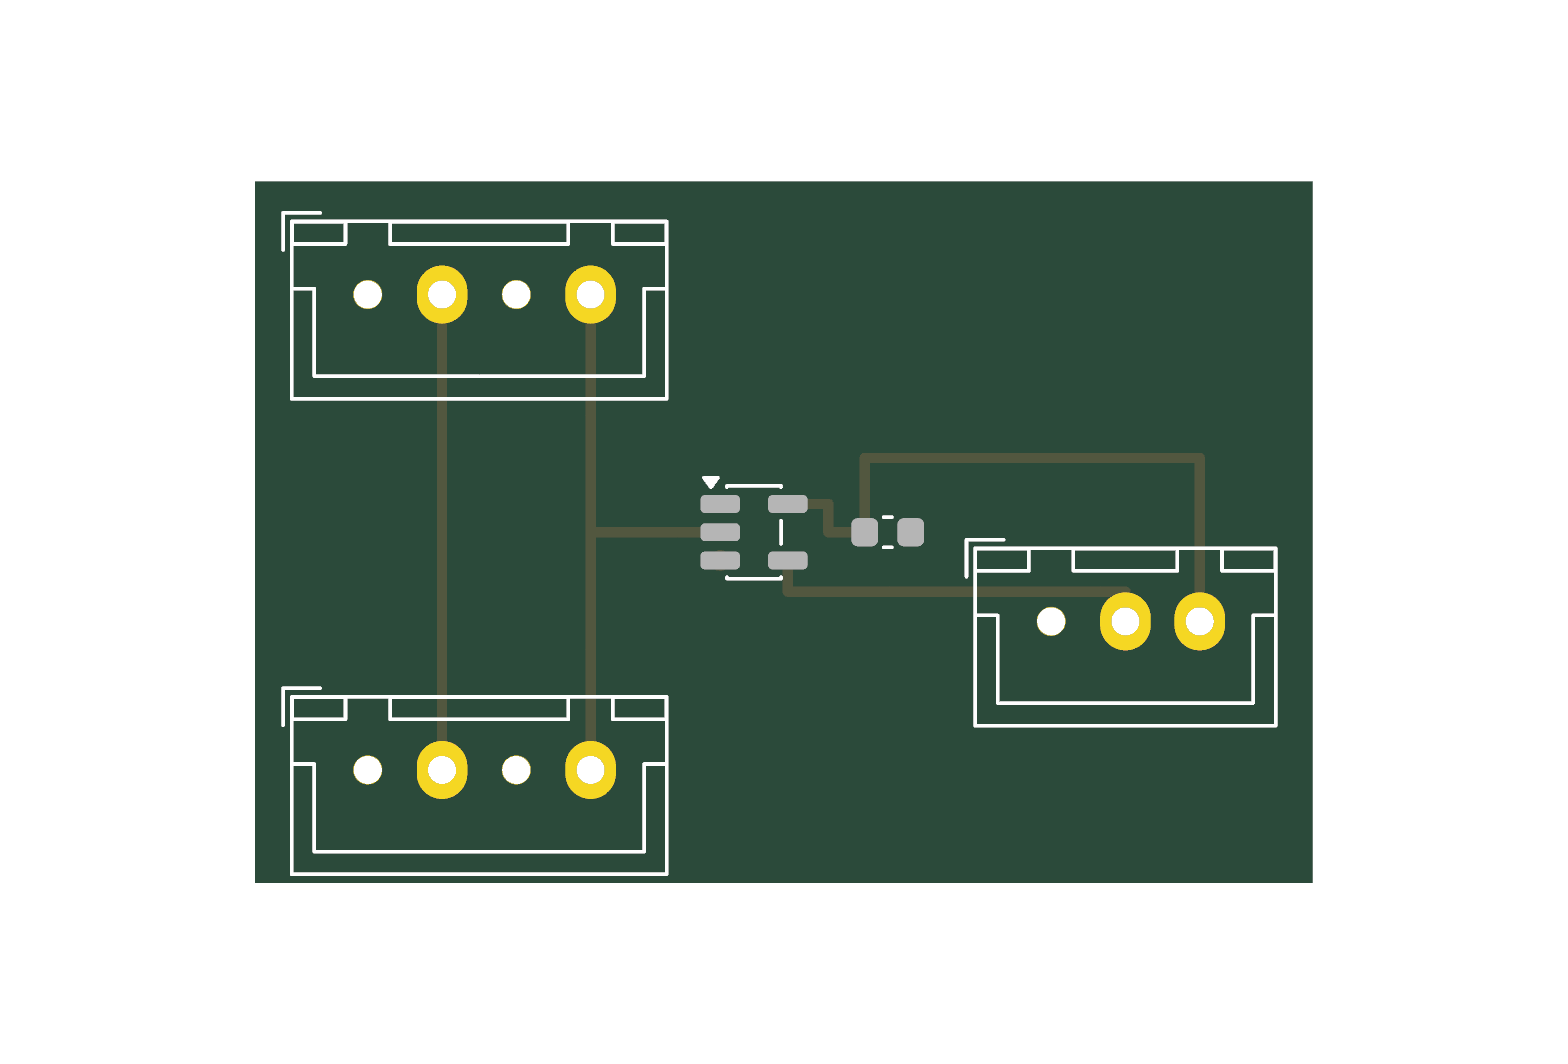
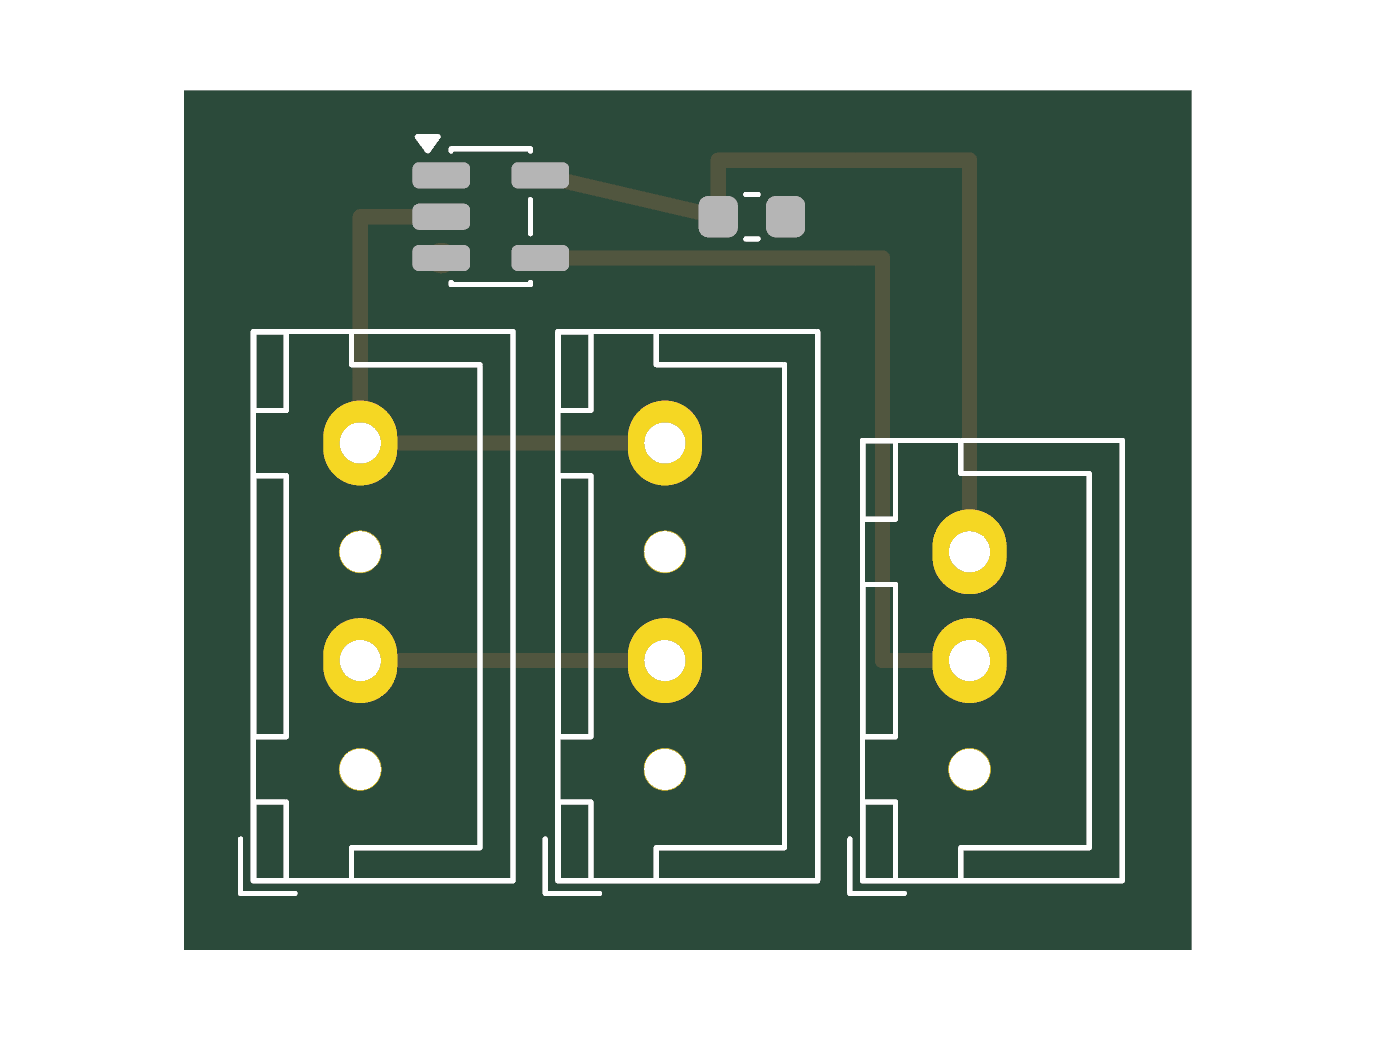
refactor(06-015): compact the flow-tap layout ~46% smaller
Rotate the three connectors vertical and pack them in a row along the bottom with
the buffer + cap up top. Board drops from 35.6x23.6 (840 mm^2) to 23.1x19.8
(457 mm^2). Still DRC-clean: 0 violations, 0 unconnected. Same nets/topology
(signals F.Cu, GND B.Cu); re-exported Gerbers + render.

Fixed a rotation-transform sign bug in the generator (KiCad's footprint-rotation
convention is rx=ox+px*cos+py*sin, ry=oy-px*sin+py*cos) so rotated footprints
place correctly.

Claude-Session: https://claude.ai/code/session_01NfkRErMrPyNuft1RbpzMet

Changed region(s): [[0.125, 0.0615, 0.875, 0.9231], [0.4688, 0.7077, 0.5, 0.7692]]

diff --git a/06-coffee-espresso/_reference/flow-tap-pcb/generate_pcb.py b/06-coffee-espresso/_reference/flow-tap-pcb/generate_pcb.py
@@ -1,7 +1,6 @@
 #!/usr/bin/env python3
-"""Native (kiutils) generator for the GICAR flow-tap interposer (06-015).
-Signals on F.Cu (routed around pad rows), GND on B.Cu (never crosses signals).
-No zone fill needed. Validate with kicad-cli."""
+"""Compact layout for the flow-tap interposer. Connectors rotated (pins facing the
+U1/C1 row) and packed in a row; signals on F.Cu, GND on B.Cu. ~half the area."""
 import math, sys, uuid
 def uid(): return str(uuid.uuid4())
 from kiutils.board import Board
@@ -12,10 +11,10 @@ from kiutils.items.gritems import GrLine
 
 FPDIR = sys.argv[1] if len(sys.argv) > 1 else "fps"
 OUT = sys.argv[2] if len(sys.argv) > 2 else "flow-tap.kicad_pcb"
+DEBUG = "--debug" in sys.argv
 
 board = Board().create_new()
 board.generator = "kiutils-flowtap"
-
 netnames = ["", "GND", "N_PLUS", "N_O", "V5", "N_OUT"]
 board.nets = [Net(i, n) for i, n in enumerate(netnames)]
 NUM = {n: i for i, n in enumerate(netnames)}
@@ -24,32 +23,30 @@ def load(name): return Footprint.from_file(f"{FPDIR}/{name}.kicad_mod")
 def place(name, ref, val, x, y, rot=0):
     fp = load(name)
     fp.position = Position(x, y, rot if rot else None)
-    fp.version = None; fp.generator = None; fp.tedit = None   # strip standalone-lib tokens
-    fp.tstamp = uid()
-    fp.properties["Reference"] = ref
-    fp.properties["Value"] = val
-    # keep the silk ${REFERENCE} fp_text in sync so the render shows the designator
+    fp.version = None; fp.generator = None; fp.tedit = None; fp.tstamp = uid()
+    fp.properties["Reference"] = ref; fp.properties["Value"] = val
     for gi in fp.graphicItems:
         if getattr(gi, "type", None) == "reference":
             gi.text = ref
     board.footprints.append(fp)
     return fp
 
-J1 = place("JST_XH_B4B-XH-A_1x04_P2.50mm_Vertical", "J1", "GICAR_meter", 5, 3)
-J2 = place("JST_XH_B4B-XH-A_1x04_P2.50mm_Vertical", "J2", "to_Vivaldi", 5, 19)
-U1 = place("SOT-23-5", "U1", "74LVC1G17", 18, 11)
-C1 = place("C_0603_1608Metric", "C1", "100nF", 22.5, 11)
-J3 = place("JST_XH_B3B-XH-A_1x03_P2.50mm_Vertical", "J3", "to_ito", 28, 14)
+# connectors rot 270 -> pins run upward (-y) from the housing at the bottom
+J1 = place("JST_XH_B4B-XH-A_1x04_P2.50mm_Vertical", "J1", "GICAR_meter", 4, 14, 90)
+J2 = place("JST_XH_B4B-XH-A_1x04_P2.50mm_Vertical", "J2", "to_Vivaldi", 11, 14, 90)
+J3 = place("JST_XH_B3B-XH-A_1x03_P2.50mm_Vertical", "J3", "to_ito", 18, 14, 90)
+U1 = place("SOT-23-5", "U1", "74LVC1G17", 7, 1.3)
+C1 = place("C_0603_1608Metric", "C1", "100nF", 13, 1.3)
 
 def setnet(fp, num, netname):
     for p in fp.pads:
         if p.number == str(num):
             p.net = Net(NUM[netname], netname); return
-    raise SystemExit(f"{fp.entryName}: no pad {num}")
+    raise SystemExit(f"{fp.properties.get('Reference')}: no pad {num}")
 
-for J in (J1, J2):                       # XH-4: 1 keyed-blank(NC), 2 +14.3V, 3 GND, 4 signal
+for J in (J1, J2):
     setnet(J, 2, "N_PLUS"); setnet(J, 3, "GND"); setnet(J, 4, "N_O")
-setnet(U1, 2, "N_O"); setnet(U1, 3, "GND"); setnet(U1, 4, "N_OUT"); setnet(U1, 5, "V5")  # 1=NC
+setnet(U1, 2, "N_O"); setnet(U1, 3, "GND"); setnet(U1, 4, "N_OUT"); setnet(U1, 5, "V5")
 setnet(C1, 1, "V5"); setnet(C1, 2, "GND")
 setnet(J3, 1, "GND"); setnet(J3, 2, "N_OUT"); setnet(J3, 3, "V5")
 
@@ -58,52 +55,66 @@ def abspad(fp, num):
         if p.number == str(num):
             a = math.radians(fp.position.angle or 0)
             px, py = p.position.X, p.position.Y
-            return (fp.position.X + px*math.cos(a) - py*math.sin(a),
-                    fp.position.Y + px*math.sin(a) + py*math.cos(a))
+            # KiCad footprint-rotation convention (y-axis down):
+            return (round(fp.position.X + px*math.cos(a) + py*math.sin(a), 4),
+                    round(fp.position.Y - px*math.sin(a) + py*math.cos(a), 4))
     raise SystemExit("no pad")
+
+if DEBUG:
+    for fp in (J1, J2, J3, U1, C1):
+        r = fp.properties["Reference"]
+        print(r, {p.number: abspad(fp, p.number) for p in fp.pads})
+    sys.exit(0)
 
 def route(points, netname, layer="F.Cu", w=0.35):
     for a, b in zip(points, points[1:]):
-        board.traceItems.append(Segment(start=Position(round(a[0],4), round(a[1],4)),
-                                         end=Position(round(b[0],4), round(b[1],4)),
+        board.traceItems.append(Segment(start=Position(*a), end=Position(*b),
                                          width=w, layer=layer, net=NUM[netname], tstamp=uid()))
 def via(p, netname):
-    board.traceItems.append(Via(position=Position(round(p[0],4), round(p[1],4)),
-                                size=0.7, drill=0.35, layers=["F.Cu", "B.Cu"], net=NUM[netname], tstamp=uid()))
+    board.traceItems.append(Via(position=Position(*p), size=0.7, drill=0.35,
+                                layers=["F.Cu", "B.Cu"], net=NUM[netname], tstamp=uid()))
 
-# ---- F.Cu signals ----
-route([abspad(J1, 2), abspad(J2, 2)], "N_PLUS")                       # +14.3 straight-through
-no_x = abspad(J1, 4)[0]
-route([abspad(J1, 4), abspad(J2, 4)], "N_O")                         # signal straight-through
-route([(no_x, abspad(U1, 2)[1]), abspad(U1, 2)], "N_O")             # branch to U1 input (T)
-j33 = abspad(J3, 3)
-route([abspad(U1, 5), (20.5, 10.05), (20.5, 11.0), abspad(C1, 1),    # V5: U1.VCC -> C1 -> J3.3
-       (21.725, 8.5), (j33[0], 8.5), j33], "V5")
+# F.Cu signals
+route([abspad(J1, 2), abspad(J2, 2)], "N_PLUS")                          # +14.3 pass-through
+route([abspad(J1, 4), abspad(J2, 4)], "N_O")                            # signal pass-through
+u2 = abspad(U1, 2); j14 = abspad(J1, 4)
+route([j14, (j14[0], u2[1]), u2], "N_O")                                # branch to U1.2 from the LEFT (clears U1.3)
+c1 = abspad(C1, 1); j33 = abspad(J3, 3)
+route([abspad(U1, 5), c1, (c1[0], 0.0), (j33[0], 0.0), j33], "V5")     # V5 over the top to J3.3
 j32 = abspad(J3, 2)
-route([abspad(U1, 4), (19.137, 13.0), (j32[0], 13.0), j32], "N_OUT")  # buffered out
+route([abspad(U1, 4), (16.0, abspad(U1, 4)[1]), (16.0, j32[1]), j32], "N_OUT")
 
-# ---- B.Cu GND (own layer -> free of signal crossings) ----
-g13, g23 = abspad(J1, 3), abspad(J2, 3)   # x-aligned spine, x = 10
-sx = g13[0]
-route([g13, g23], "GND", "B.Cu")                                     # spine J1.3 <-> J2.3
-route([(sx, 16.0), abspad(J3, 1)], "GND", "B.Cu")                    # branch (leaves spine at y16) -> J3.1
-u3 = abspad(U1, 3); via(u3, "GND"); route([u3, (sx, u3[1])], "GND", "B.Cu")   # U1 GND -> spine
-c2 = abspad(C1, 2); via(c2, "GND"); route([c2, abspad(J3, 1)], "GND", "B.Cu")  # C1 GND -> J3.1 pad
+# B.Cu GND (approach J3.1 from the side so it never runs over J3's V5/N_OUT pins)
+g1, gj = abspad(J1, 3), abspad(J3, 1)
+Y = g1[1]                                                               # spine y = 9
+route([(g1[0], Y), (14.0, Y)], "GND", "B.Cu")                          # spine J1.3..J2.3..tap
+route([(14.0, Y), (14.0, gj[1]), gj], "GND", "B.Cu")                   # down then across to J3.1
+u3 = abspad(U1, 3); via(u3, "GND"); route([u3, (u3[0], Y)], "GND", "B.Cu")
+c2 = abspad(C1, 2); via(c2, "GND"); route([c2, (c2[0], Y)], "GND", "B.Cu")
 
-# ---- board outline (Edge.Cuts) from placement bbox ----
+# outline — from pad extents + courtyards (so connector housings aren't clipped)
+def fp_extent(fp):
+    a = math.radians(fp.position.angle or 0)
+    ox, oy = fp.position.X, fp.position.Y
+    def tf(px, py): return (ox+px*math.cos(a)+py*math.sin(a), oy-px*math.sin(a)+py*math.cos(a))
+    pts = []
+    for p in fp.pads:
+        cx, cy = tf(p.position.X, p.position.Y); hw, hh = p.size.X/2, p.size.Y/2
+        pts += [(cx-hw, cy-hh), (cx+hw, cy+hh), (cx-hw, cy+hh), (cx+hw, cy-hh)]
+    for gi in fp.graphicItems:
+        if getattr(gi, "layer", "") in ("F.CrtYd", "B.CrtYd") and hasattr(gi, "start"):
+            pts.append(tf(gi.start.X, gi.start.Y)); pts.append(tf(gi.end.X, gi.end.Y))
+    return pts
 xs, ys = [], []
 for fp in board.footprints:
-    for p in fp.pads:
-        ax, ay = abspad(fp, p.number)
-        xs.append(ax); ys.append(ay)
-m = 3.8
+    for (px, py) in fp_extent(fp): xs.append(px); ys.append(py)
+m = 1.2
 x0, y0, x1, y1 = min(xs)-m, min(ys)-m, max(xs)+m, max(ys)+m
-corners = [(x0,y0), (x1,y0), (x1,y1), (x0,y1)]
+corners = [(x0,y0),(x1,y0),(x1,y1),(x0,y1)]
 for a, b in zip(corners, corners[1:]+corners[:1]):
     board.graphicItems.append(GrLine(start=Position(round(a[0],3),round(a[1],3)),
                                       end=Position(round(b[0],3),round(b[1],3)),
                                       layer="Edge.Cuts", width=0.15, tstamp=uid()))
 
 board.to_file(OUT)
-print(f"saved {OUT}: {len(board.footprints)} fps, {len(board.traceItems)} traces, "
-      f"outline {x1-x0:.1f} x {y1-y0:.1f} mm")
+print(f"saved {OUT}: outline {x1-x0:.1f} x {y1-y0:.1f} mm = {(x1-x0)*(y1-y0):.0f} mm^2")

diff --git a/06-coffee-espresso/06-015-gicar-flow-tap-interposer.md b/06-coffee-espresso/06-015-gicar-flow-tap-interposer.md
@@ -115,7 +115,7 @@ To revert: pull the board, plug the meter back into the Vivaldi.
 - [x] Schematic + netlist + BoM drafted (KiCad project scaffolded)
 - [x] Identify `J1/J2` (GICAR) + `J3` (ito) connectors → **JST XH 2.5 mm**: GICAR = 4-pin (pos 1
       key-blank; 2 +14.3 V/red, 3 GND/black, 4 signal/white), ito = 3-pin (1 GND, 2 signal, 3 +5 V)
-- [x] Lay out the board — routed + **DRC-clean** (0 violations, 0 unconnected), 2-layer 35.6 × 23.6
+- [x] Lay out the board — routed + **DRC-clean** (0 violations, 0 unconnected), 2-layer 23.1 × 19.8
       mm. Generated headlessly (`_reference/flow-tap-pcb/generate_pcb.py`) + validated with
       `kicad-cli`. Signals on F.Cu, GND on B.Cu. Render + Gerbers in `_reference/flow-tap-pcb/`
 - [ ] Final review in KiCad GUI (compact placement / right-angle headers if wanted) → order

diff --git a/06-coffee-espresso/_reference/flow-tap-pcb/README.md b/06-coffee-espresso/_reference/flow-tap-pcb/README.md
@@ -7,7 +7,7 @@ picture: [flow-interposer.svg](flow-interposer.svg).
 **Status (2026-07-13): routed + DRC-clean, fab-ready.** The board is generated headlessly
 (`generate_pcb.py`, kiutils) and validated with `kicad-cli` (DRC: **0 violations, 0 unconnected**).
 Gerbers/drill are exported in [`flow-tap-gerbers.zip`](flow-tap-gerbers.zip); a top render is
-[`flow-tap-top.png`](flow-tap-top.png). Board size ≈ **35.6 × 23.6 mm**, 2-layer.
+[`flow-tap-top.png`](flow-tap-top.png). Board size ≈ **23.1 × 19.8 mm**, 2-layer.
 
 > Open `flow-tap.kicad_pcb` in KiCad for a final eyeball before ordering (mains-adjacent signal).
 > The placement is functional but roomy — you may want to compact it and/or swap the vertical XH